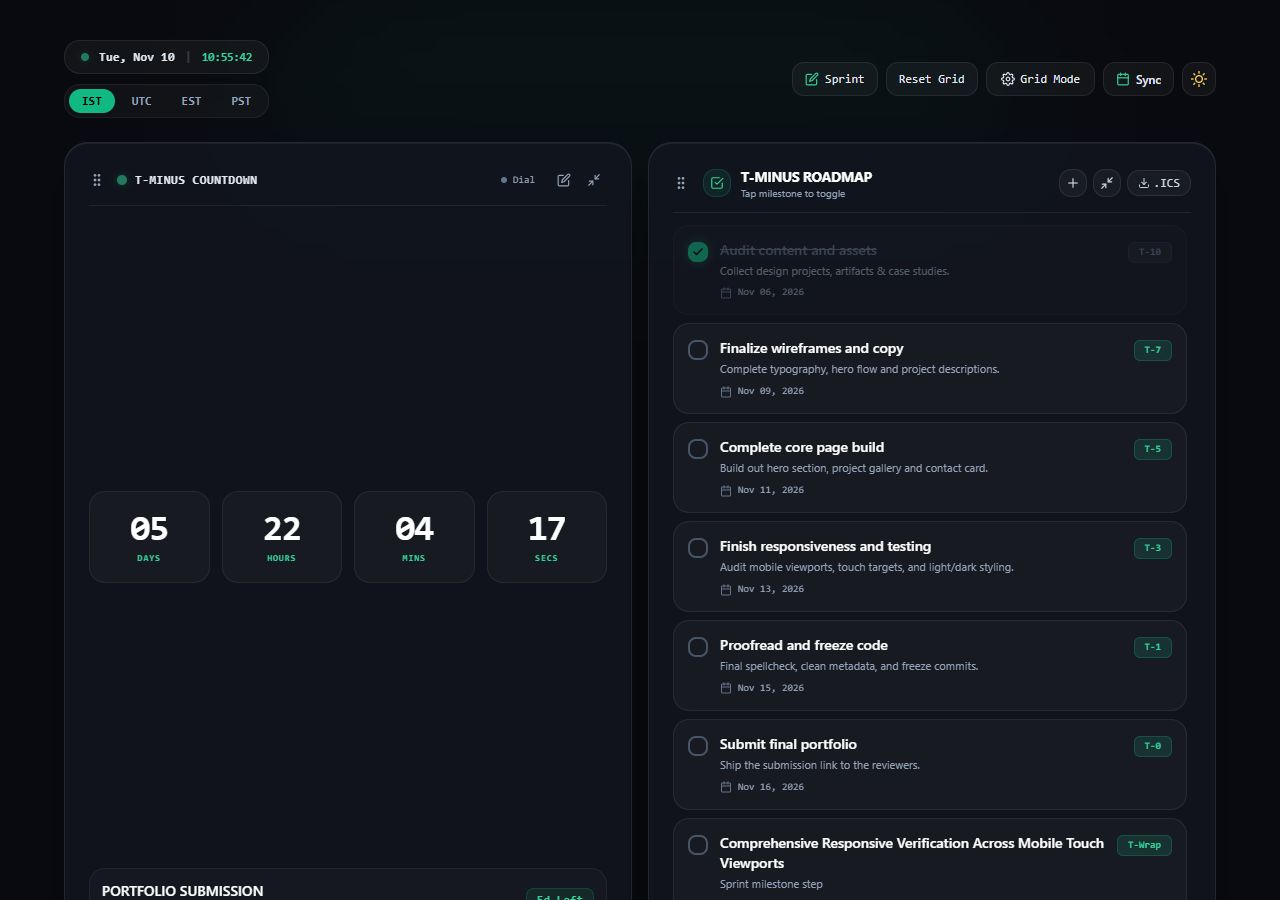
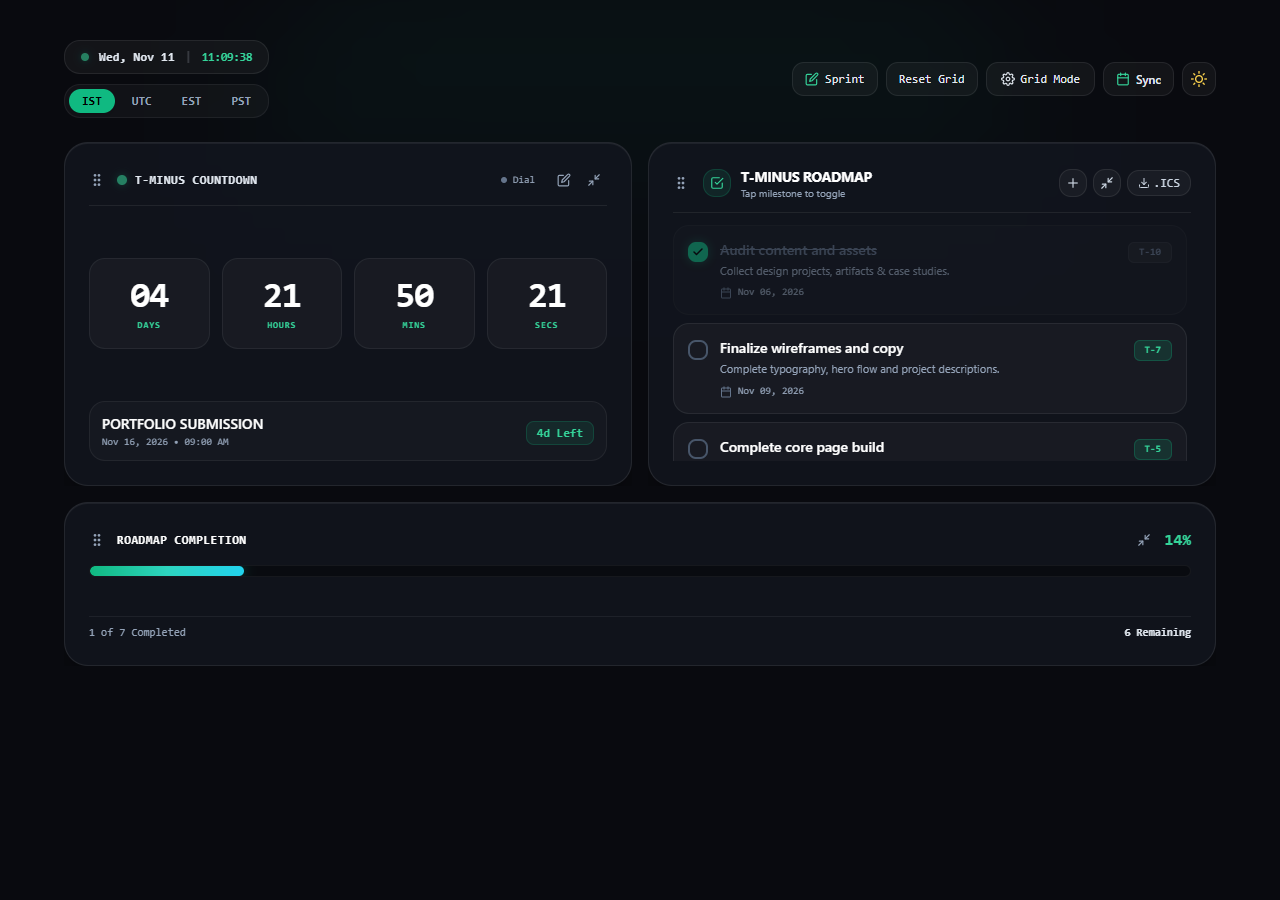
fix: root cause of delayed resizing & compaction downward drift with fixed track physics and mobile dynamic height

diff --git a/index.html b/index.html
@@ -112,8 +112,14 @@
     .dashboard-grid {
       display: grid;
       grid-template-columns: repeat(8, minmax(0, 1fr));
-      grid-auto-rows: minmax(44px, auto);
+      grid-auto-rows: 44px;
       gap: 16px;
+    }
+
+    .dashboard-widget {
+      min-height: 44px;
+      height: 100%;
+      overflow: hidden;
     }
 
     @media (max-width: 639px) {
@@ -125,10 +131,13 @@
       .dashboard-widget {
         width: 100% !important;
         min-width: 100% !important;
+        height: calc(var(--widget-h, 6) * 44px + (var(--widget-h, 6) - 1) * 16px) !important;
+        min-height: 44px !important;
+        overflow: hidden !important;
         order: var(--widget-order, 0);
       }
-      /* Hide horizontal edge resize handles on mobile since widgets are full width */
-      .handle-w, .handle-e, .handle-nw, .handle-ne, .handle-sw, .handle-se {
+      /* Hide horizontal and top resize handles on mobile since widgets are full width */
+      .handle-w, .handle-e, .handle-nw, .handle-ne, .handle-sw, .handle-se, .handle-n {
         display: none !important;
       }
     }
@@ -833,15 +842,22 @@
             let newW = origW;
             let newH = origH;
 
-            // East / West (Horizontal resizing)
-            if (direction.includes('e')) {
-              newW = Math.max(limits.minW, Math.min(8 - origCol + 1, origW + deltaCols));
-            } else if (direction.includes('w')) {
-              const maxShrink = origW - limits.minW;
-              const maxExpandLeft = origCol - 1;
-              const clampedDelta = Math.min(maxShrink, Math.max(-maxExpandLeft, deltaCols));
-              newCol = origCol + clampedDelta;
-              newW = origW - clampedDelta;
+            // Mobile viewport lock: widgets on mobile are full width (col 1, w 8)
+            const isMobileViewport = typeof window !== 'undefined' && window.innerWidth <= 639;
+            if (isMobileViewport) {
+              newCol = 1;
+              newW = 8;
+            } else {
+              // East / West (Horizontal resizing)
+              if (direction.includes('e')) {
+                newW = Math.max(limits.minW, Math.min(8 - origCol + 1, origW + deltaCols));
+              } else if (direction.includes('w')) {
+                const maxShrink = origW - limits.minW;
+                const maxExpandLeft = origCol - 1;
+                const clampedDelta = Math.min(maxShrink, Math.max(-maxExpandLeft, deltaCols));
+                newCol = origCol + clampedDelta;
+                newW = origW - clampedDelta;
+              }
             }
 
             // South / North (Vertical resizing)
@@ -1765,17 +1781,22 @@
               const isDragging = activeDragId === widgetId;
               const isResizingThis = resizingId && resizingId.id === widgetId;
               const isWidgetMin = !!minimized[widgetId] || item.h <= 1;
+              const currentEffectiveH = isWidgetMin ? 1 : Math.max(1, item.h);
 
               const gridStyle = {
                 gridColumn: `${Math.max(1, Math.min(8, item.col))} / span ${Math.max(1, Math.min(8, item.w))}`,
-                gridRow: `${Math.max(1, item.row)} / span ${isWidgetMin ? 1 : Math.max(1, item.h)}`
+                gridRow: `${Math.max(1, item.row)} / span ${currentEffectiveH}`
               };
 
               return (
                 <div
                   key={widgetId}
                   data-widget={widgetId}
-                  style={{ ...gridStyle, '--widget-order': (item.row * 10) + item.col }}
+                  style={{
+                    ...gridStyle,
+                    '--widget-order': (item.row * 10) + item.col,
+                    '--widget-h': currentEffectiveH
+                  }}
                   className={`dashboard-widget group relative transition-all duration-200 flex flex-col ${
                     isEditMode ? 'ring-1 ring-emerald-500/40 bg-emerald-500/[0.01]' : ''
                   } ${isDragging ? 'widget-dragging' : ''} ${

diff --git a/countdown_milestone_dashboard_documentation.md b/countdown_milestone_dashboard_documentation.md
@@ -2118,4 +2118,51 @@ The dashboard UI was comprehensively elevated to match the craftsmanship standar
    - Resize handles are subtle corner notches (`rounded-tl-[4px]`) that reveal on card hover with an emerald glow.
    - Hit target physics are preserved at `>= 28px` for touch devices while visually occupying only a discreet 6x6px corner indicator.
 
+---
+
+## 10. Root Cause Analysis & Architecture: Gradual Resizing & Zero-Downward-Drift Compaction
+
+### 10.1 The Dual Symptoms Reported
+1. **Gradual Resizing Failure**: When resizing components, the height did not increase 1-by-1 with user movement; it remained static up to a large threshold (~row 14) and then suddenly jumped.
+2. **Compaction Downward Drift**: When compacting (shrinking) a component upward, other components below it unexpectedly drifted down the page instead of floating up.
+
+### 10.2 Root Cause Analysis
+
+#### 1. CSS Grid `grid-auto-rows: minmax(44px, auto)` Track Expansion
+- In CSS Grid specification (§ 11.5), tracks sized with `auto` expand or contract to accommodate the intrinsic content of the items spanning them.
+- When `milestones` has 6 roadmap items, its natural content is ~693px tall.
+- Under `minmax(44px, auto)`:
+  - Spanning 6 rows: CSS Grid allocated `693px / 6 = ~115px` per row.
+  - Spanning 7 rows: CSS Grid allocated `693px / 7 = ~99px` per row. Total = 693px.
+  - Spanning 8 rows: CSS Grid allocated `693px / 8 = ~86px` per row. Total = 693px.
+  - Spanning 11 rows: CSS Grid allocated `693px / 11 = ~63px` per row. Total = 693px.
+  - The outer card height **never increased by even 1 pixel** until `h = 12..14` (when `14 * 44px min-height = 616px`), causing a sudden delayed jump.
+- Conversely, when compacting `milestones` from 6 to 4 rows:
+  - Rows 1..4 expanded to absorb all 693px.
+  - Rows 5 and 6 (which `countdown` in the left column still spanned) were now outside `milestones` and each added an extra 60px (`44px + 16px gap`).
+  - Total vertical grid span grew from 693px to `693px + 120px = 813px`, pushing `progress` **down** by 120px!
+
+#### 2. Mobile Viewport Flexbox vs 2D Matrix Disconnect
+- In mobile screens (`< 640px`), `.dashboard-grid` used `display: flex !important; flex-direction: column !important;`.
+- In CSS `display: flex`, CSS Grid's `grid-row: span H` is completely ignored by browsers.
+- As a result, changing `h` during drag had 0 visual height effect on mobile.
+- Meanwhile, `packLayout` recomputed 2D matrix rows, altering `--widget-order: (item.row * 10) + item.col`, causing components to spontaneously flip or plummet to the bottom of the column.
+
+### 10.3 The Root Architectural Fix
+
+1. **Deterministic Fixed Row Tracks**:
+   - Replaced `grid-auto-rows: minmax(44px, auto)` with fixed `grid-auto-rows: 44px`.
+   - Applied `height: 100%`, `min-height: 44px`, and `overflow: hidden` to `.dashboard-widget`.
+   - Content containers now utilize `flex-1 min-h-0 overflow-y-auto` so content scrolls gracefully while the card container matches its row span 1:1.
+   - Every single row step (`h: 1, 2, 3...`) adds or removes **exactly 60px** (`44px row + 16px gap`).
+2. **Deterministic Mobile Dynamic Height**:
+   - On screens `< 640px`, `.dashboard-widget` is dynamically bound to:
+     ```css
+     height: calc(var(--widget-h, 6) * 44px + (var(--widget-h, 6) - 1) * 16px) !important;
+     ```
+   - On pointer drag, the widget expands or compacts by 60px per row directly in flexbox, immediately pulling lower widgets up when compacting and pushing them down when expanding.
+3. **Viewport Dimension Lock**:
+   - Enforced `newCol = 1` and `newW = 8` on mobile viewports so horizontal twitching or accidental diagonal drag never alters columns or triggers 2D column collision displacements.
+
+
 
